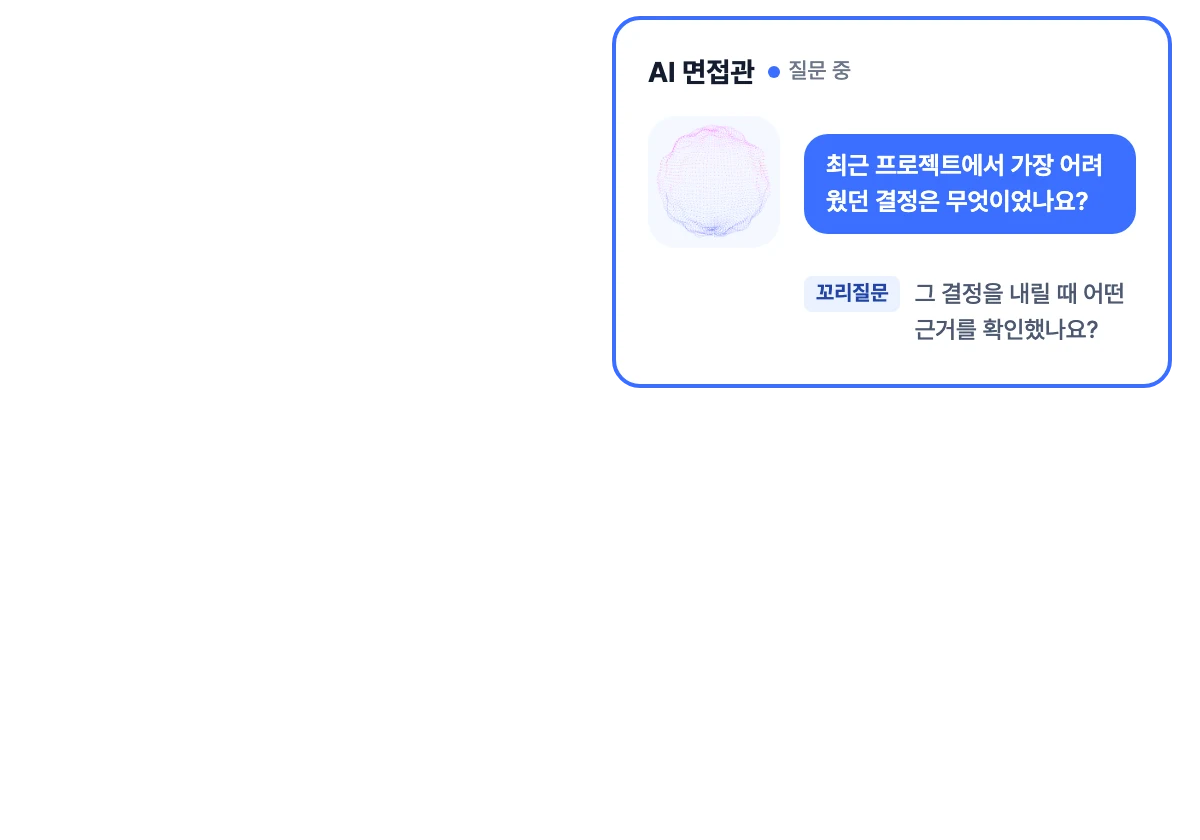
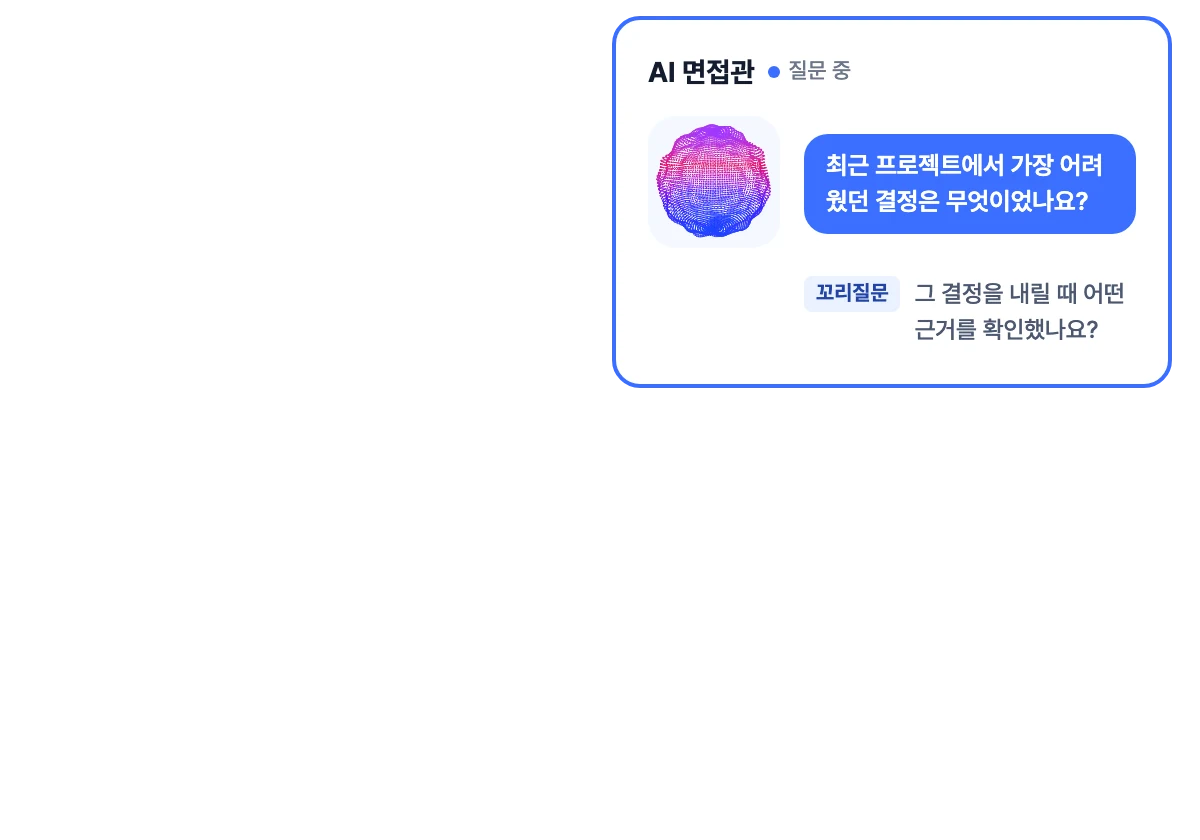
AI 면접 히어로: 어두운 바탕(남색→블랙), PIP 축소, 오브 선명하게
- 히어로 섹션 바탕을 AI 역량검사 문제 띠와 같은 남색→블랙 그라데이션으로(ProductHero dark) —
  밝은 바탕에 어두운 화면인 AI 역량검사와 반대로, 어두운 바탕에 흰 화면. 위를 지날 때 GNB 흰 로고(data-nav="dark")
- 영상 칸은 다시 밝게(앞서 어둡게 한 것은 잘못 이해한 것)
- 영상 속 PIP(AI 면접관 타일) 62×49 → 46×36, 점선 위치 맞춤
- AI 면접관 오브: 1200px 이미지를 줄여 흐리던 것을 orb.js로 표시 크기에 맞춰 직접 그려 선명하게
  (시드 7 · 말하는 순간 — _docs/…/AI면접관_orb 이미지와 같은 순간)

Changed region(s): [[0.5242, 0.1238, 0.6475, 0.2786]]

diff --git a/components/ProductHero.tsx b/components/ProductHero.tsx
@@ -13,9 +13,9 @@ export type HeroLine = { d: string; dot: [number, number] };
  * 이미지 원본은 _docs/홈페이지 개편/도식/캡처가공/make.mjs — AI 역량검사는 실제 응시 화면을 가공한 레이어(hero-l-*: 화면·AI 어시스턴트·보고서·칩,
  * 글은 '파일 1, 2, 3' 같은 일반 내용), AI 면접은 AI 역량검사와 구분되는 흰 화면을 캡처 배치대로 그린 레이어(iv3-l-*: 화면·AI 면접관 오브 카드·리포트·칩).
  * layers를 주면 img를 바탕으로 레이어를 겹쳐 그리고 움직인다(움직임 줄이기 설정이면 멈춤). 스타일은 app/landing.css(.phero).
- * data-nav를 두지 않는다 — 밝은 바탕이라 GNB를 반전하지 않는다.
+ * dark를 주면 어두운 바탕(문제 띠와 같은 남색→블랙)에 흰 글씨 — AI 면접(2026-11-25, 밝은 바탕에 어두운 화면인 AI 역량검사와 대비). 이때만 data-nav="dark"로 GNB를 흰 로고로 반전한다.
  */
-export default function ProductHero({ name, isNew = false, title, lead, img, alt, layers, lines }: {
+export default function ProductHero({ name, isNew = false, title, lead, img, alt, layers, lines, dark = false }: {
   name: string;
   isNew?: boolean;
   title: ReactNode;
@@ -24,9 +24,10 @@ export default function ProductHero({ name, isNew = false, title, lead, img, alt
   alt: string;
   layers?: HeroLayer[];
   lines?: HeroLine[];
+  dark?: boolean;
 }) {
   return (
-    <section className="phero" id="hero">
+    <section className={dark ? "phero dark" : "phero"} id="hero" data-nav={dark ? "dark" : undefined}>
       <div className="wrap phero-grid">
         <div className="phero-text">
           <span className="phero-name">{name}{isNew && <span className="prod-new">NEW</span>}</span>

diff --git a/app/landing.css b/app/landing.css
@@ -69,6 +69,13 @@
   .phero-cta{display:flex;align-items:center;gap:22px;flex-wrap:wrap;margin-top:34px}
   .phero-link{display:inline-flex;align-items:center;gap:8px;font-weight:700;font-size:15px;color:var(--blue-d)}
   .phero-link:hover{color:var(--ink)}
+  /* 어두운 히어로(ProductHero dark — AI 면접, 11/25): AI 역량검사 문제 띠(.band.dark)와 같은 남색→블랙 세로 그라데이션. 흰 화면 이미지와 대비 */
+  .phero.dark{background:linear-gradient(180deg,#13214A 0%,#0A1129 45%,#030509 100%)}
+  .phero.dark h1{color:#fff}
+  .phero.dark p{color:#B9BDC7}
+  .phero.dark .phero-name{color:#DCE7FF;background:rgba(255,255,255,.08)}
+  .phero.dark .phero-link{color:#C9D7FF}
+  .phero.dark .phero-link:hover{color:#fff}
   .phero-media img{display:block;width:100%;height:auto}
   /* 히어로 레이어 모션(2026-11-25, AI 역량검사 — ProductHero의 layers·lines): 바탕 위에 같은 크기 투명 레이어를 겹치고,
      AI 어시스턴트 카드는 위→아래, 보고서 카드는 아래→위, 칩은 왼쪽→오른쪽으로 화면 쪽에 모였다 돌아온다. 점선은 화면 쪽으로 흐른다 */

diff --git a/app/ai-interview/page.tsx b/app/ai-interview/page.tsx
@@ -102,6 +102,7 @@ export default function AiInterviewPage() {
       {/* 01 · 히어로 */}
       <ProductHero
         name="AI 면접"
+        dark // 어두운 바탕(AI 역량검사 문제 띠와 같은 남색→블랙) — 밝은 바탕에 어두운 화면인 AI 역량검사 히어로와 대비(11/25)
         title={<>1차 면접,<br />질문부터 리포트까지<br /><span className="blue">AI</span>가 진행합니다</>}
         lead="채용공고를 넣으면 평가 기준과 질문을 만들고, 지원자 답변에 꼬리질문을 이어 갑니다. 채용팀은 리포트를 보고 만날 사람을 정합니다."
         img="/hero-interview-base.webp"
@@ -114,7 +115,7 @@ export default function AiInterviewPage() {
           { src: "/hero-interview-chip.webp", move: "right" },
         ]}
         lines={[
-          { d: "M395 197 V218", dot: [395, 220] },
+          { d: "M403 197 V225", dot: [403, 227] },
           { d: "M300 264 V232", dot: [300, 230] },
         ]}
       />

diff --git a/CLAUDE.md b/CLAUDE.md
@@ -26,7 +26,7 @@ Supercoder AI 웹사이트 — **AIVIEW** 제품 랜딩 + 블로그/도입문의
   - `app/privacy`, `app/terms`, `app/terms-applicant` — 법적 페이지(서버). `app/not-found.tsx` — 404.
 - **공유 디자인 토큰·컴포넌트 CSS는 `app/globals.css` (SSOT).** `:root` 변수(`--blue`,`--ink`,`--soft`,`--r`,`--shadow` 등)·버튼(`.btn*`)·`.eyebrow`·GNB(`header`/`nav`)·푸터(`footer`)·모달(`.bro-*`)·챗봇(`.cbot*`)·법적 페이지(`.legal`)가 모두 여기. 루트 `layout.tsx`에서 1회 import. **공유 컴포넌트를 바꿀 땐 `app/globals.css`만 고치면 전 페이지가 함께 바뀐다.**
 - **페이지 고유 CSS는 라우트 폴더에 co-located** (`app/landing.css`, `app/apply/apply.css`, `app/blog/blog.css`, `app/blog/[id]/post.css`, `app/admin/admin.css`). 해당 page에서 import. 클래스는 전역 스코프(원본 정적 사이트와 동일 동작).
-- **공유 컴포넌트(`components/`):** `SiteHeader`(섹션 인지형 GNB·메뉴. '제품▾' 펼침 메뉴 항목은 `PRODUCTS` 배열 하나를 데스크톱·모바일이 함께 쓴다), `SiteFooter`, `Chatbot`(FAQ 챗봇), `HeroParticles`(canvas 입자 모션, 히어로·CTA 공용), `Analytics`·`UtmCapture`·`ViewCounter`. 모두 `layout.tsx`에 마운트되거나 page에서 사용. `"use client"`. 홈·제품 페이지가 같이 쓰는 섹션은 서버 컴포넌트 `PageHero`(홈 전용 다크 히어로, 강조어는 `HeroWord`)·`ProductHero`(제품 상세 페이지 히어로 — 밝은 바탕 + 오른쪽 제품 이미지 `public/hero-*.webp`. AI 역량검사는 실제 응시 화면 캡처를 가공한 것(어두운 화면), AI 면접은 그와 구분되는 흰 화면을 캡처 배치대로 그린 것 — 둘 다 `_docs/홈페이지 개편/도식/캡처가공/make.mjs`. `layers`·`lines`를 주면 바탕 위에 투명 레이어를 겹쳐 레이어마다 움직인다 — AI 역량검사는 `public/hero-assessment-*.webp`, AI 면접은 `public/hero-interview-*.webp`(화면·AI 면접관 카드·리포트·칩).)·`StepFlow`(3단계 카드 줄, 단계마다 `img`를 주면 카드 아래에 실제 화면을 꽉 차게 붙인다 — `.pstep.has-shot`)·`TeamSection`(채용팀 기능, 두 제품 공용)·`ClientLogos`(도입사 로고 마퀴)·`ReportRows`(리포트 4종)·`IntegritySection`(부정행위 감지 — 왼쪽 감지 항목 6개, 오른쪽 HTML '감지 내역' 예시 카드, 홈은 `withLink`)·`SecuritySection`(좌우 분할 — 왼쪽 제목·ISO 인증 마크, 오른쪽 보안 항목 목록)·`FaqList`(FAQ 목록)·`SoftCta`(중간 안내 한 줄+버튼 — 홈 서비스소개서 안내)·`NextProductCard`(제품 페이지 끝 다른 제품 안내, 상대 제품 도식 썸네일 카드)·`FinalCta`(마지막 CTA, `points`를 주면 버튼 아래 차별점 띠 — AI 역량검사) — 스타일은 `app/landing.css`. 제품 이름·주소·한 줄 설명·도식 썸네일은 `lib/products.ts`(GNB·푸터·홈 카드·NextProductCard 공용), ISO 인증 목록은 `lib/certs.ts`(푸터·보안 섹션 공용). 제품 문구의 사실 근거·금지 표현은 `_docs/홈페이지 개편/AI면접_AI역량검사_차이_소개자료.md`. ⚠ `CostCalculator.tsx`는 **어디에도 마운트돼 있지 않다**(미사용). 소개서 리드는 옛 `BrochureModal`이 아니라 `app/brochure/` 라우트가 담당한다.
+- **공유 컴포넌트(`components/`):** `SiteHeader`(섹션 인지형 GNB·메뉴. '제품▾' 펼침 메뉴 항목은 `PRODUCTS` 배열 하나를 데스크톱·모바일이 함께 쓴다), `SiteFooter`, `Chatbot`(FAQ 챗봇), `HeroParticles`(canvas 입자 모션, 히어로·CTA 공용), `Analytics`·`UtmCapture`·`ViewCounter`. 모두 `layout.tsx`에 마운트되거나 page에서 사용. `"use client"`. 홈·제품 페이지가 같이 쓰는 섹션은 서버 컴포넌트 `PageHero`(홈 전용 다크 히어로, 강조어는 `HeroWord`)·`ProductHero`(제품 상세 페이지 히어로 — 밝은 바탕 + 오른쪽 제품 이미지 `public/hero-*.webp`, `dark`를 주면 어두운 바탕(문제 띠 `.band.dark`와 같은 남색→블랙) — AI 면접은 어두운 바탕 + 흰 화면으로 AI 역량검사(밝은 바탕 + 어두운 화면)와 대비. AI 역량검사는 실제 응시 화면 캡처를 가공한 것(어두운 화면), AI 면접은 그와 구분되는 흰 화면을 캡처 배치대로 그린 것 — 둘 다 `_docs/홈페이지 개편/도식/캡처가공/make.mjs`. `layers`·`lines`를 주면 바탕 위에 투명 레이어를 겹쳐 레이어마다 움직인다 — AI 역량검사는 `public/hero-assessment-*.webp`, AI 면접은 `public/hero-interview-*.webp`(화면·AI 면접관 카드·리포트·칩).)·`StepFlow`(3단계 카드 줄, 단계마다 `img`를 주면 카드 아래에 실제 화면을 꽉 차게 붙인다 — `.pstep.has-shot`)·`TeamSection`(채용팀 기능, 두 제품 공용)·`ClientLogos`(도입사 로고 마퀴)·`ReportRows`(리포트 4종)·`IntegritySection`(부정행위 감지 — 왼쪽 감지 항목 6개, 오른쪽 HTML '감지 내역' 예시 카드, 홈은 `withLink`)·`SecuritySection`(좌우 분할 — 왼쪽 제목·ISO 인증 마크, 오른쪽 보안 항목 목록)·`FaqList`(FAQ 목록)·`SoftCta`(중간 안내 한 줄+버튼 — 홈 서비스소개서 안내)·`NextProductCard`(제품 페이지 끝 다른 제품 안내, 상대 제품 도식 썸네일 카드)·`FinalCta`(마지막 CTA, `points`를 주면 버튼 아래 차별점 띠 — AI 역량검사) — 스타일은 `app/landing.css`. 제품 이름·주소·한 줄 설명·도식 썸네일은 `lib/products.ts`(GNB·푸터·홈 카드·NextProductCard 공용), ISO 인증 목록은 `lib/certs.ts`(푸터·보안 섹션 공용). 제품 문구의 사실 근거·금지 표현은 `_docs/홈페이지 개편/AI면접_AI역량검사_차이_소개자료.md`. ⚠ `CostCalculator.tsx`는 **어디에도 마운트돼 있지 않다**(미사용). 소개서 리드는 옛 `BrochureModal`이 아니라 `app/brochure/` 라우트가 담당한다.
 - **섹션 = 랜딩 구조 (정의된 이름·번호·id).** `app/page.tsx`는 번호 매겨진 섹션 스택이다. 정식 목록(2026-11 개편): 01 히어로(`#hero`), 02 도입사(`#clients`), 03 문제·FLOOD(`#flood`), 04 해결·제품 2종(`#products`, 옛 VALUE 자리), 05 역할·ROLE(`#role`, 깔때기 SVG), 06 작동 방식·리포트 4종+도입 3단계(`#how`), 07 부정행위 감지(`#integrity`), 08 보안(`#security`), 09 성과·PROOF(`#proof`), 10 후기(`#voices`), 11 FAQ(`#faq`), 12 마지막 CTA(`#final`). 배경은 흰색↔연한 블루가 번갈아 오도록 둔다(공용 섹션 틀 `.band`/`.band.soft`). GNB는 섹션 앵커를 쓰지 않는다 — 메뉴는 제품▾(`/ai-interview`·`/ai-assessment`)·블로그·서비스소개서·이벤트(2026-11-24). 부정행위 감지·보안은 메뉴가 아니라 홈·제품 페이지 본문에서 보여준다.
 - **섹션 인지형 GNB:** `[data-nav="dark"]` 섹션(히어로·FINAL) 위에선 헤더 반전(흰 로고). 색 전환 클래스(`header.nav-invert`/`.nav-solid`)는 `globals.css`(SSOT), 감지 로직은 `SiteHeader.tsx`의 `syncHeader`.
 - **폰트·아이콘은 자체 호스팅 서브셋(2026-08-10 성능 최적화):** `layout.tsx`가 `pretendard.css`(woff2 청크만 jsdelivr)와 `fontawesome.css`를 import한다. 아이콘은 `<i className="fa-...">`로 쓰되, **`app/fontawesome.css`에 정의된 아이콘만 쓸 수 있다** — `public/fonts/`의 woff2도 pyftsubset으로 잘라낸 상태라 목록에 없는 이름을 쓰면 버튼은 동작해도 글리프가 렌더되지 않는다(2026-08-21 `fa-flask` 사례). 새 아이콘이 꼭 필요하면 CSS 룰 추가 + 폰트 재서브셋이 함께 필요하다. Supabase는 `@supabase/supabase-js`(npm).
